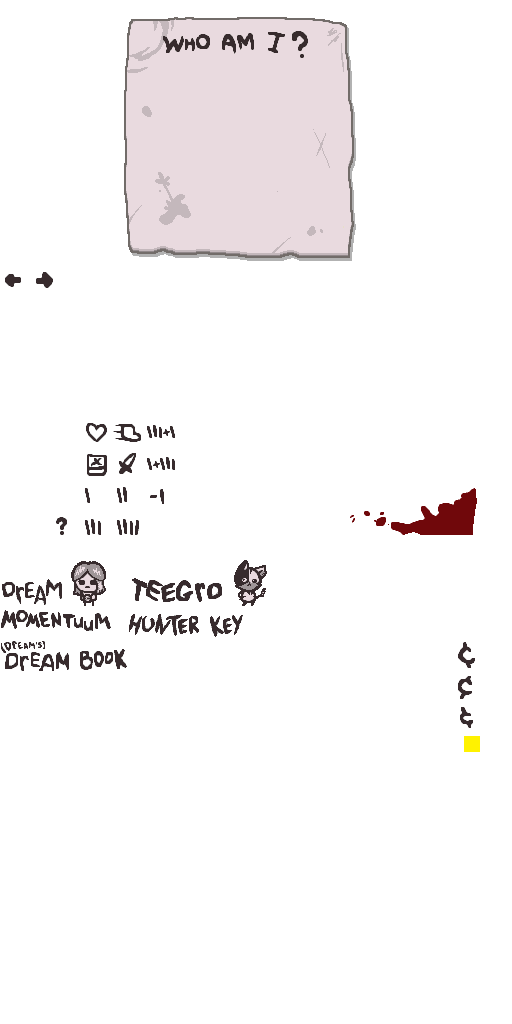
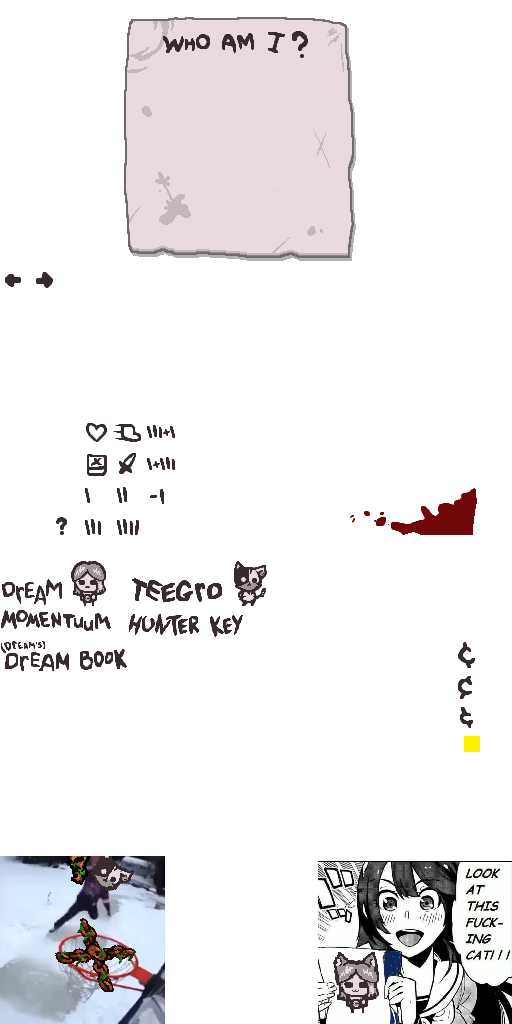
add: unlocks system add: death tarot effect add: Momentuum cards custom pickup sprite update: chariot damage block chance is now smaller for non contact damage

Changed region(s): [[0.0, 0.8125, 0.3438, 1.0], [0.625, 0.8438, 1.0, 1.0], [0.4688, 0.5312, 0.5, 0.5625]]

diff --git a/src/pocketItems/MomentuumCards.ts b/src/pocketItems/MomentuumCards.ts
@@ -1,10 +1,13 @@
 import { CacheFlag, CardType, CollectibleType, DamageFlag, EntityFlag, EntityType, ModCallback, UseFlag, PlayerItemAnimation, SoundEffect, GridRoom, PickupVariant, RoomType, DisplayFlag, RoomDescriptorFlag, GeminiVariant, BeastVariant, DingleVariant, GurglingVariant, ItemPoolType, TrinketType, GridEntityType, PoopGridEntityVariant, PlayerType, PickupPrice, BombSubType, DarkEsauSubType, HeartSubType, FamiliarVariant, ChubVariant, DukeOfFliesVariant, PeepVariant, LokiVariant, FistulaVariant, WidowVariant, DaddyLongLegsVariant, PinVariant, PolycephalusVariant, EffectVariant } from "isaac-typescript-definitions";
-import { addFlag, anyPlayerHasCollectible, bitFlags, Callback, CallbackCustom, COLORS, DefaultMap, defaultMapGetPlayer, game, getBosses, getEntities, getEntityFromPtrHash, getEntityID, getPickups, getPlayers, getPocketItems, getRandomArrayElement, getRandomArrayIndex, getRandomInt, getRandomVector, getRoomDescriptorReadOnly, getRoomGridIndex, getRooms, getUnusedDoorSlots, hasCard, hasFlag, inRoomType, isCharacter, itemConfig, mapDeletePlayer, mapHasPlayer, mapSetPlayer, ModCallbackCustom, ModFeature, PickupIndex, PocketItemType, repeat, setAddPlayer, setHasPlayer, sfxManager, smeltTrinket, spawn, spawnCollectible, spawnCollectibleFromPool, spawnEffect, spawnEntityID, spawnHeart, spawnNPC, spawnPickup, teleport, type EntityID, type PlayerIndex } from "isaacscript-common";
+import { addFlag, anyPlayerHasCollectible, bitFlags, Callback, CallbackCustom, COLORS, DefaultMap, defaultMapGetPlayer, game, getBosses, getEntities, getEntityFromPtrHash, getEntityID, getPickups, getPlayers, getPocketItems, getRandomArrayElement, getRandomArrayIndex, getRandomFloat, getRandomInt, getRandomVector, getRoomDescriptorReadOnly, getRoomGridIndex, getRooms, getUnusedDoorSlots, hasCard, hasFlag, inRoomType, isCardPickup, isCharacter, itemConfig, logFlags, mapDeletePlayer, mapHasPlayer, mapSetPlayer, ModCallbackCustom, ModFeature, PickupIndex, PocketItemType, repeat, setAddPlayer, setHasPlayer, sfxManager, smeltTrinket, spawn, spawnCollectible, spawnCollectibleFromPool, spawnEffect, spawnEntityID, spawnHeart, spawnNPC, spawnPickup, teleport, type EntityID, type PlayerIndex } from "isaacscript-common";
 import { ModEnums } from "../ModEnums";
 import { Utils } from "../misc/Utils";
 import { InnateItems } from "../misc/InnateItems";
 import { TeegroData } from "../characters/Teegro";
 import { mod } from "../mod";
+import { Unlocks } from "../misc/Unlocks";
+
+Unlocks.AddLockedCardRange(ModEnums.CARD_MOMENTUUM_FOOL, ModEnums.CARD_MOMENTUUM_WORLD);
 
 const v = {
     run: {
@@ -31,6 +34,7 @@ const v = {
     },
     room: {
         WheelOfFortune: new DefaultMap<PlayerIndex, {remainingUses: int, passedSinceLastUse: int}>(() => { return {remainingUses: 0, passedSinceLastUse: 0}; }),
+        Death: false,
         Stars: false
     }
 }
@@ -153,7 +157,6 @@ export class MomentuumCards extends ModFeature {
     UseMomentuumCard(cardType: CardType, player: EntityPlayer, useFlags: BitFlags<UseFlag>) {
         let rng = player.GetCardRNG(cardType);
         let hasTarotCloth = player.HasCollectible(CollectibleType.TAROT_CLOTH);
-        let tarotCount = player.GetCollectibleNum(CollectibleType.TAROT_CLOTH);
         if (hasFlag(useFlags, UseFlag.CAR_BATTERY)) return;
         let entity: Entity;
         let room = game.GetRoom();
@@ -276,6 +279,7 @@ export class MomentuumCards extends ModFeature {
                 entity = spawnNPC(EntityType.BEAST, BeastVariant.ULTRA_DEATH, 0, game.GetRoom().GetCenterPos());
                 entity.AddEntityFlags(addFlag(EntityFlag.CHARM, EntityFlag.FRIENDLY));
                 sfxManager.Play(SoundEffect.SATAN_GROW);
+                if (hasTarotCloth) v.room.Death = true;
                 break;
             case ModEnums.CARD_MOMENTUUM_TEMPERANCE:
                 spawnCollectible(CollectibleType.BREAKFAST, room.FindFreePickupSpawnPosition(player.Position, 20), undefined);
@@ -336,6 +340,14 @@ export class MomentuumCards extends ModFeature {
                 MomentuumWorld();
                 break;
         }
+    }
+
+    @Callback(ModCallback.POST_PICKUP_INIT)
+    CardsCustomSprite(pickup: EntityPickup) {
+        if (!isCardPickup(pickup) || pickup.SubType < ModEnums.CARD_MOMENTUUM_FOOL || pickup.SubType > ModEnums.CARD_MOMENTUUM_WORLD) return;
+        let sprite = pickup.GetSprite();
+        sprite.ReplaceSpritesheet(0, "gfx/items/pickups/Momentuum_Card.png");
+        sprite.LoadGraphics();
     }
 
     @CallbackCustom(ModCallbackCustom.POST_PLAYER_UPDATE_REORDERED)
@@ -434,6 +446,9 @@ export class MomentuumCards extends ModFeature {
 
     @CallbackCustom(ModCallbackCustom.POST_ROOM_CLEAR_CHANGED, true)
     CardsRoomCleared() {
+        if (v.room.Death) {
+            Isaac.GetPlayer().UseActiveItem(CollectibleType.NECRONOMICON, UseFlag.NO_ANIMATION);
+        }
         if (v.level.World) {
             if (anyPlayerHasCollectible(CollectibleType.TAROT_CLOTH) && hasFlag(getRoomDescriptorReadOnly().Flags, RoomDescriptorFlag.RED_ROOM) && getRandomInt(1, 5, Isaac.GetPlayer().GetCardRNG(ModEnums.CARD_MOMENTUUM_WORLD)) == 1) {
                 let level = game.GetLevel();
@@ -487,10 +502,12 @@ export class MomentuumCards extends ModFeature {
     @Callback(ModCallback.ENTITY_TAKE_DMG, EntityType.PLAYER)
     CardsPlayerTakeDamage(entity: Entity, amount: float, damageFlags: BitFlags<DamageFlag>, source: EntityRef, countdownFrames: int): undefined | boolean {
         let player = entity.ToPlayer(); if (!player) return;
+        print(source.Entity, source.Entity?.ToNPC());
         if (!setHasPlayer(v.level.Chariot, player)) return;
-        if (hasFlag(damageFlags, DamageFlag.NO_MODIFIERS) || hasFlag(damageFlags, DamageFlag.FAKE)) return;
-        let chanceToBlockDamage = player.HasCollectible(CollectibleType.TAROT_CLOTH) ? 3 : 2;
-        if (getRandomInt(1, 4, player.GetCardRNG(ModEnums.CARD_MOMENTUUM_CHARIOT)) <= chanceToBlockDamage) {
+        if ([DamageFlag.INVINCIBLE, DamageFlag.FAKE, DamageFlag.NO_MODIFIERS].some(flag => hasFlag(damageFlags, flag))) return;
+        let chanceToBlockDamage = source.Entity?.ToNPC() ? .5 : .25; // higher chance for contact damage
+        if (player.HasCollectible(CollectibleType.TAROT_CLOTH)) chanceToBlockDamage = 2 * chanceToBlockDamage - chanceToBlockDamage * chanceToBlockDamage;
+        if (getRandomFloat(0, 1, player.GetCardRNG(ModEnums.CARD_MOMENTUUM_CHARIOT)) <= chanceToBlockDamage) {
             player.TakeDamage(1, DamageFlag.FAKE, EntityRef(player), 0);
             spawnEffect(EffectVariant.SHOCKWAVE, 0, player.Position);
             return false;

diff --git a/src/misc/Unlocks.ts b/src/misc/Unlocks.ts
@@ -1,0 +1,48 @@
+import { CardType, CollectibleType, ModCallback } from "isaac-typescript-definitions";
+import { Callback, game, getRoomItemPoolType, isCardPickup, isCollectible, ModFeature } from "isaacscript-common";
+
+const lockedItems: Set<CollectibleType> = new Set();
+const lockedCards: Set<CardType> = new Set();
+
+const v = {
+    persistent: {
+        unlockedItems: new Set<CollectibleType>,
+        unlockedCards: new Set<CardType>
+    }
+}
+
+export class Unlocks extends ModFeature {
+    v = v;
+
+    public static AddLockedItem(item: CollectibleType) {
+        lockedItems.add(item);
+    }
+
+    public static AddLockedCard(card: CardType) {
+        lockedCards.add(card);
+    }
+
+    public static AddLockedCardRange(cardStart: CardType, cardEnd: CardType) {
+        for (let card = cardStart; card <= cardEnd; card++) Unlocks.AddLockedCard(card);
+    }
+
+    public static UnlockItem(item: CollectibleType) {
+        v.persistent.unlockedItems.add(item);
+    }
+
+    public static UnlockCard(card: CardType) {
+        v.persistent.unlockedCards.add(card);
+    }
+
+    @Callback(ModCallback.POST_PICKUP_INIT)
+    RerollLockedItems(pickup: EntityPickup) {
+        if (isCollectible(pickup) && lockedItems.has(pickup.SubType) && !v.persistent.unlockedItems.has(pickup.SubType)) {
+            let pool = getRoomItemPoolType();
+            let newItem = game.GetItemPool().GetCollectible(pool, true, pickup.InitSeed);
+            pickup.Morph(pickup.Type, pickup.Variant, newItem, true, false, true);
+        } else if (isCardPickup(pickup) && lockedCards.has(pickup.SubType) && !v.persistent.unlockedCards.has(pickup.SubType)) {
+            let newCard = game.GetItemPool().GetCard(pickup.InitSeed, true, true, false);
+            pickup.Morph(pickup.Type, pickup.Variant, newCard, true, false, true);
+        }
+    }
+}

diff --git a/src/items/Momentuum.ts b/src/items/Momentuum.ts
@@ -4,6 +4,7 @@ import { ModEnums } from "../ModEnums";
 import { Utils } from "../misc/Utils";
 import { InnateItems } from "../misc/InnateItems";
 import { CallbackPostPlayerRenderAbove } from "../misc/AdditionalCallbacks";
+import { Unlocks } from "../misc/Unlocks";
 
 // #region Consts
 
@@ -319,7 +320,10 @@ const MomentuumSkills: MomentuumSkill<any>[] = [
             getPocketItems(player).forEach(pid => {
                 if (pid.type != PocketItemType.CARD) return;
                 let momentuumCard = getMomentuumCardFromRegular(pid.subType);
-                if (momentuumCard) player.SetCard(pid.slot, momentuumCard);
+                if (momentuumCard) {
+                    player.SetCard(pid.slot, momentuumCard);
+                    Unlocks.UnlockCard(momentuumCard);
+                }
             });
         },
         () => 4

diff --git a/src/characters/Teegro.ts b/src/characters/Teegro.ts
@@ -23,9 +23,12 @@ const AlphaChangeSpeed = 0.5 / 30;
 function CollectHunterPickup(this: void, pickup: EntityPickup, player: EntityPlayer) {
     if (pickup.Price !== undefined) {
         if (pickup.Price > 0) player.AddCoins(-pickup.Price);
+
     }
-    AddHunterKeyShards(HunterKeyInfo[pickup.SubType]?.Value ?? 0);
+    let value = HunterKeyInfo[pickup.SubType]?.Value ?? 0;
+    AddHunterKeyShards(value);
     sfxManager.Play(SoundEffect.BONE_HEART);
+    if (pickup.Price == PickupPrice.SPIKES && inRoomType(RoomType.DEVIL) && value >= 4) game.AddDevilRoomDeal();
 }
 function CollisionHunterPickup(this: void, pickup: EntityPickup, player: EntityPlayer) {
     if (!pickup.Price) return;

diff --git a/src/main.ts b/src/main.ts
@@ -7,11 +7,12 @@ import { DreamsHandbag } from "./trinkets/DeamsBag";
 import { MomentuumCards } from "./pocketItems/MomentuumCards";
 import { Teegro } from "./characters/Teegro";
 import { PostPlayerRenderAbove } from "./misc/AdditionalCallbacks";
+import { Unlocks } from "./misc/Unlocks";
 
 
 export function main(): void {
     initModFeatures(mod, [PostPlayerRenderAbove]);
-    initModFeatures(mod, [InnateItems]);
+    initModFeatures(mod, [InnateItems, Unlocks]);
     initModFeatures(mod, [Dream, Momentuum, MomentuumCards]);
     // tainted Dream will be here
     initModFeatures(mod, [DreamsHandbag]);
